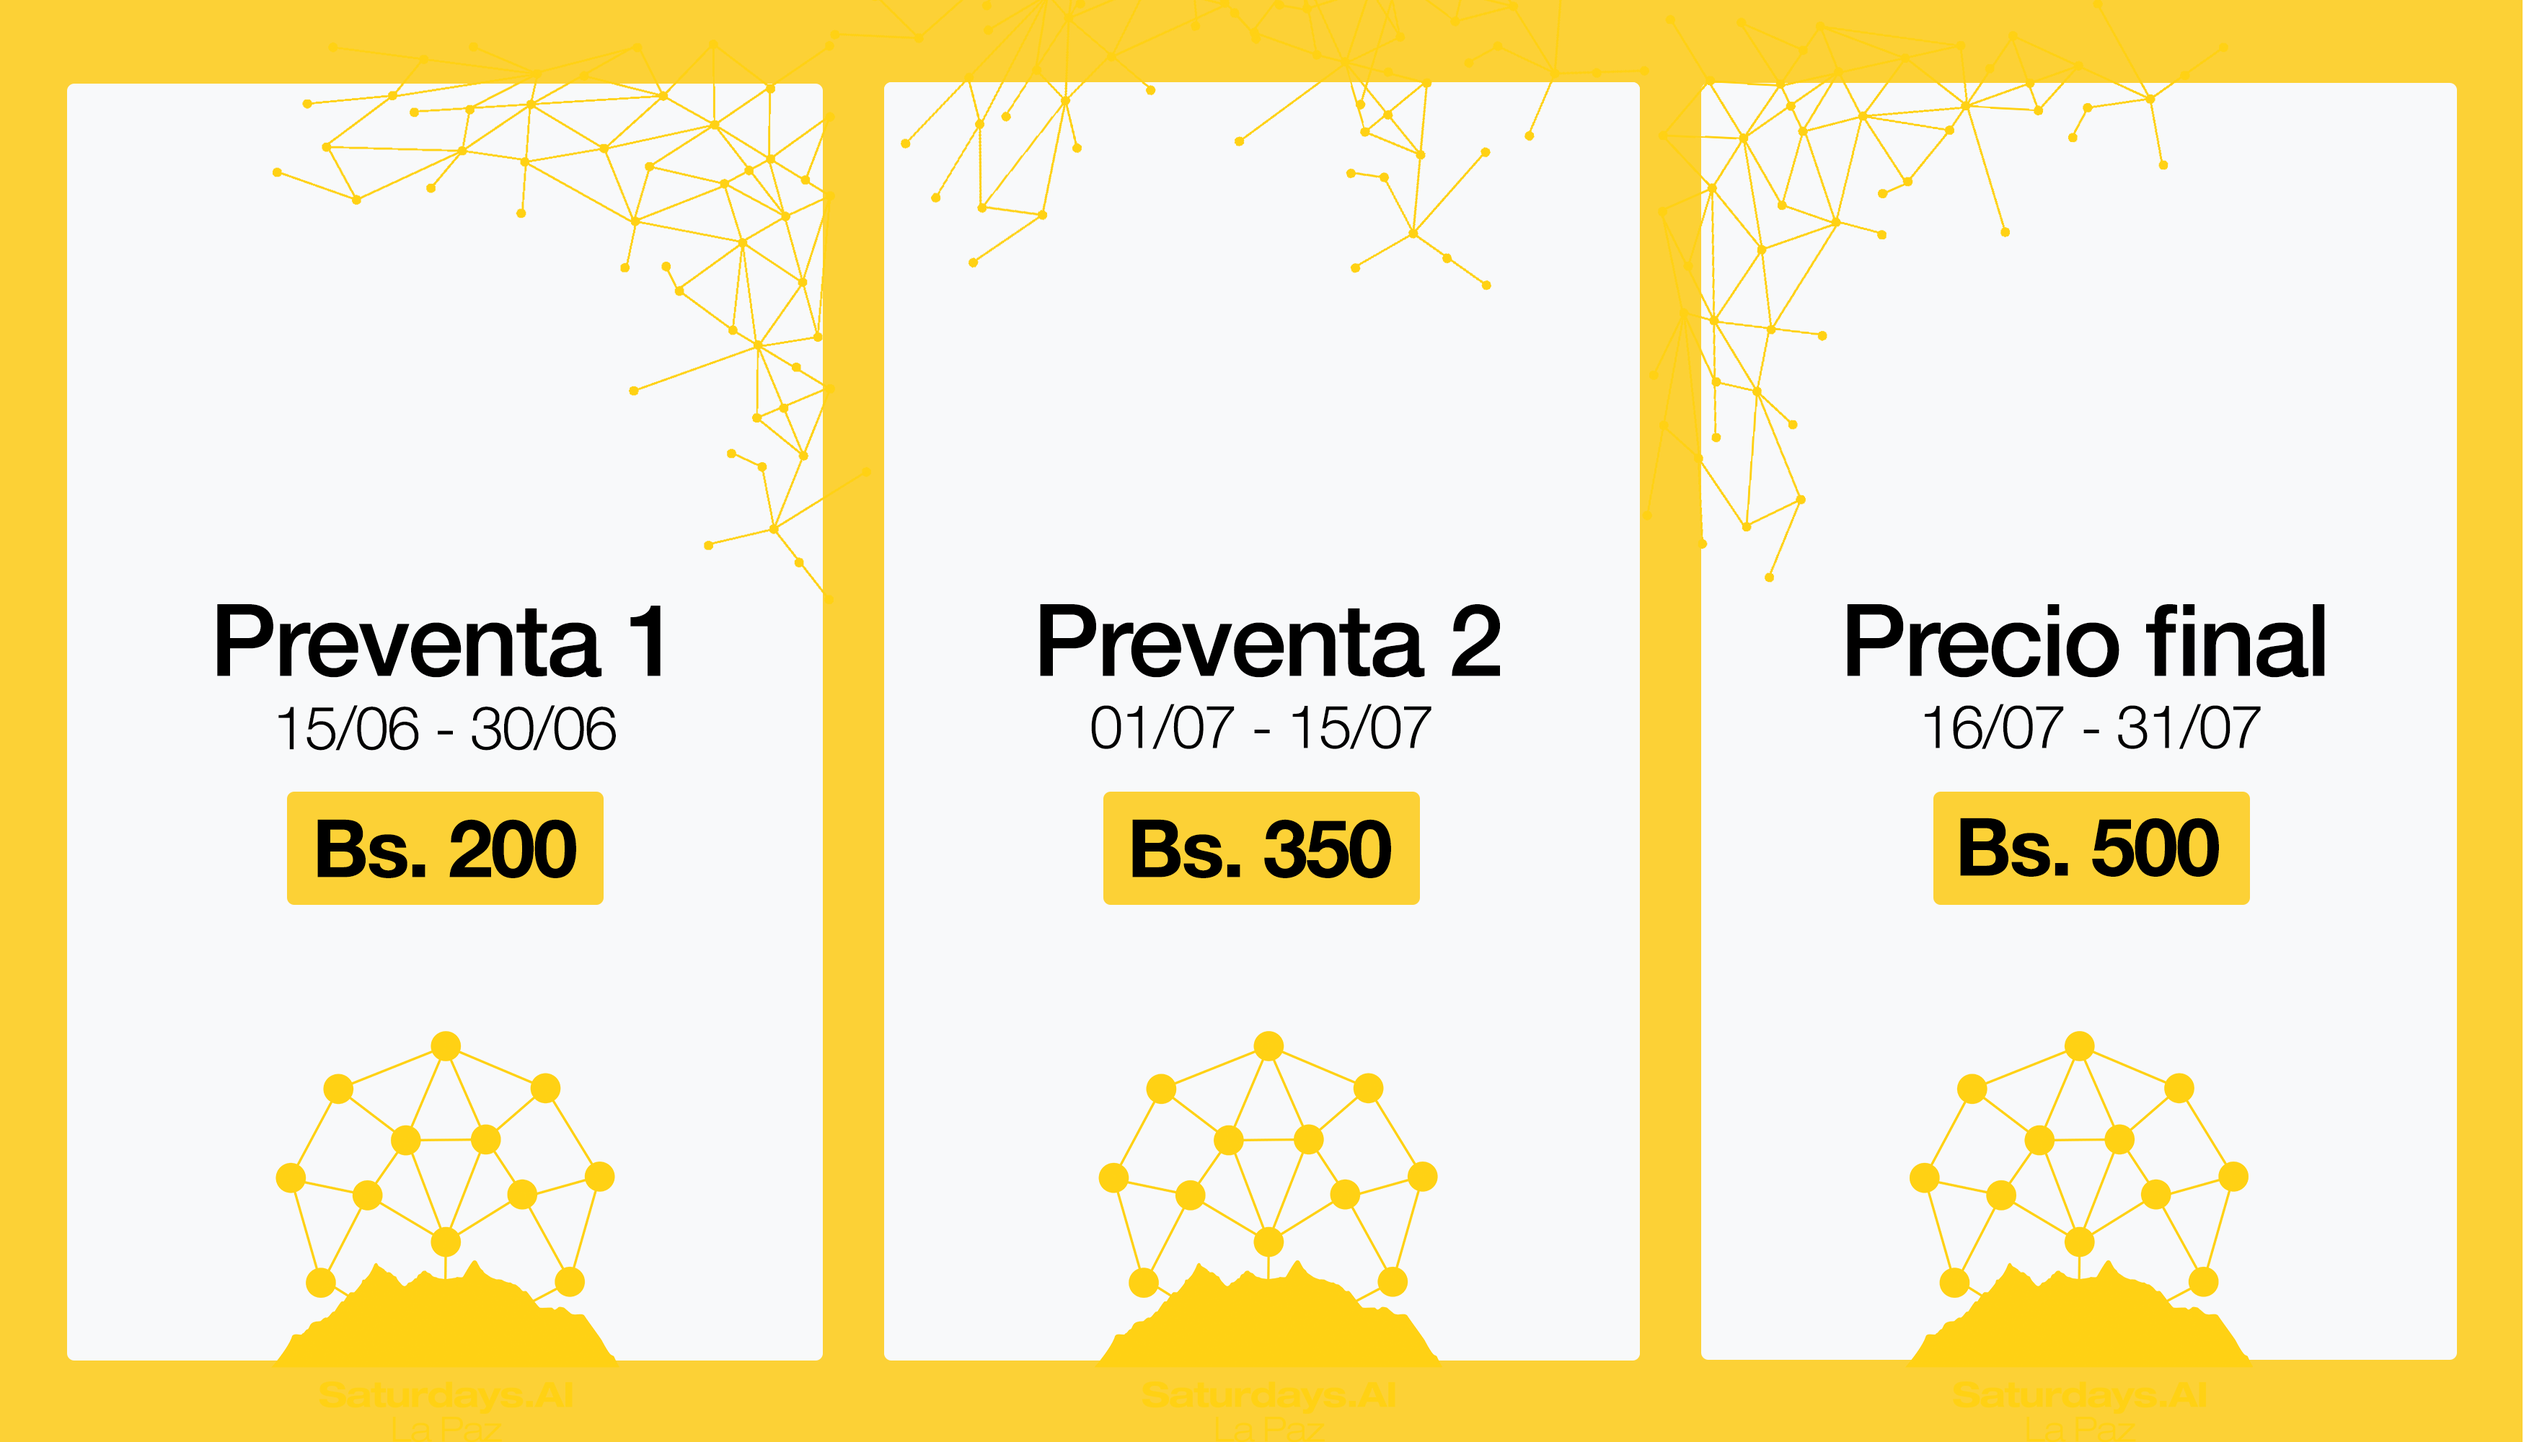
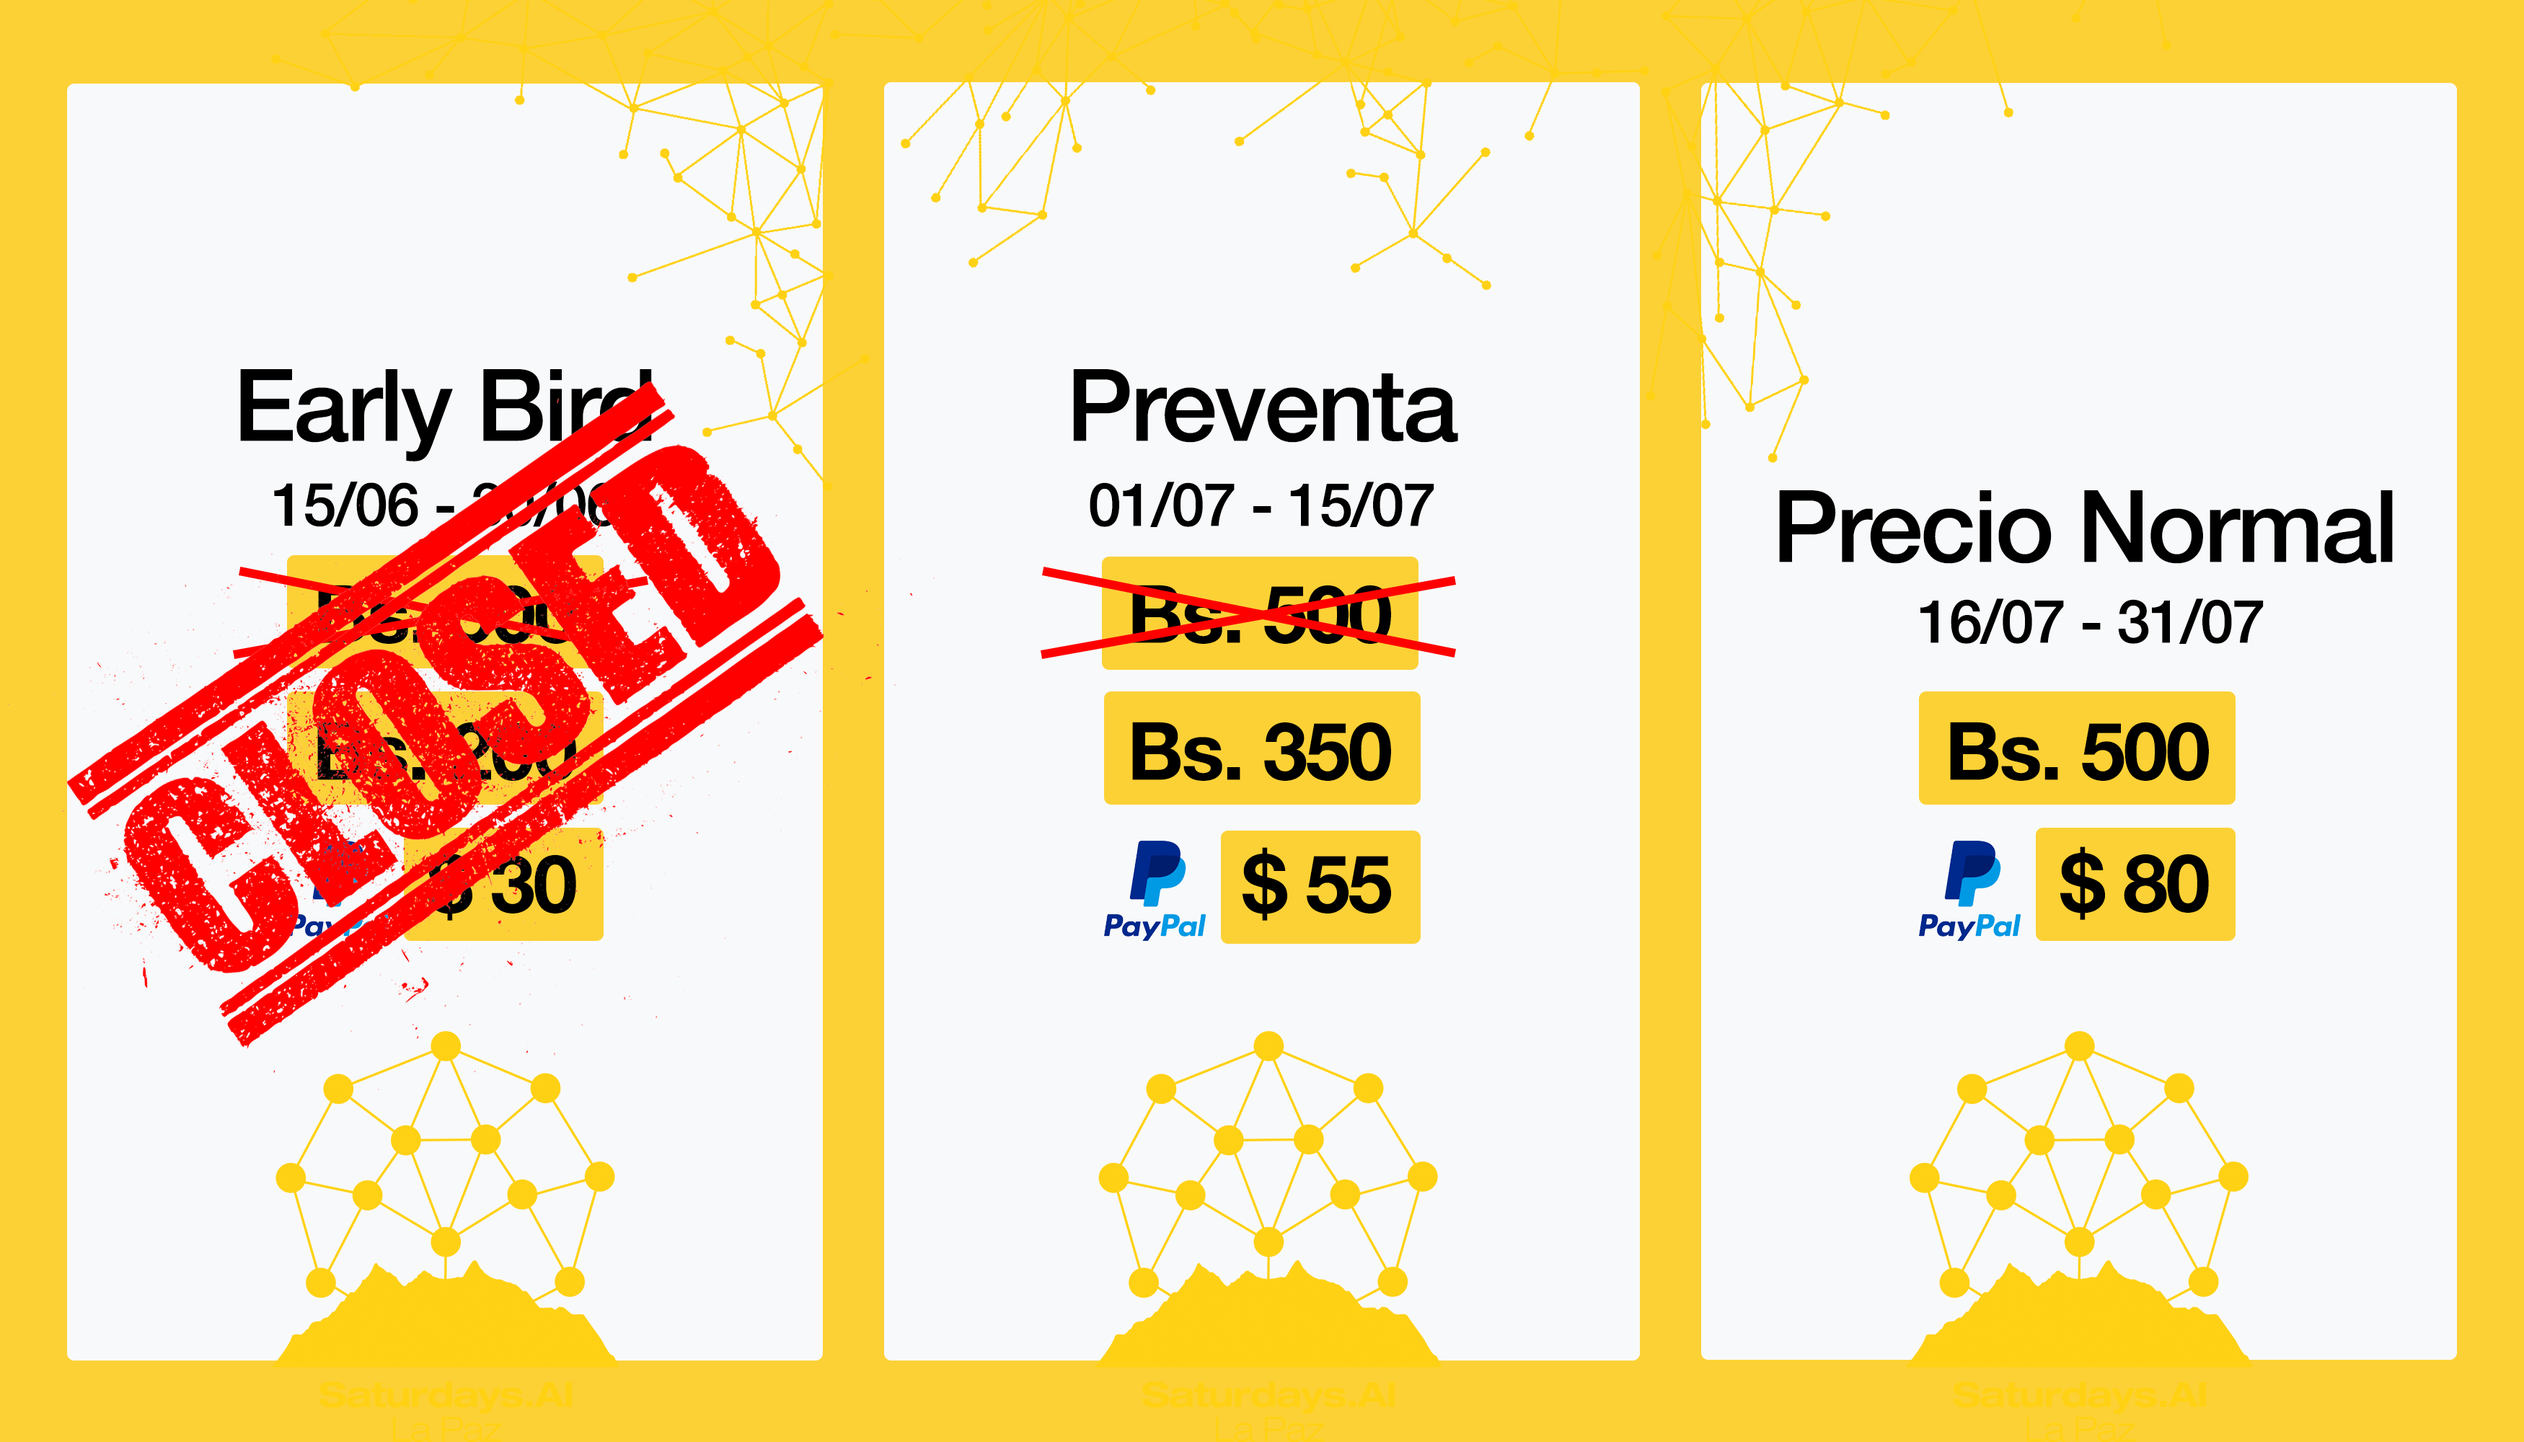
tier

diff --git a/index.html b/index.html
@@ -301,8 +301,8 @@ Soy profesora de Platzi en el curso de Fundamentos prácticos de Machine Learnin
                           <p><b>Modalidad:</b> Online</p>
                           <p> <b>Horario: </b> 09:00 - 12:00</p>
                           <p>¡Incluye Certificado avalado internacionalmente!.</p>
-                          <p>¡Aprovecha el descuento de Early Bird! (Un solo pago)</p>
-                          <img src= "assets/img/tier_ff.png" width="75%" height="75%"/><br><br>
+                          <p>¡Aprovecha el descuento de Preventa! (Un solo pago)</p>
+                          <img src= "assets/img/tier.png" width="75%" height="75%"/><br><br>
                           <button class="btn btn-primary btn-xl text-uppercase" id="sendMessageButton" type="reset"  onclick="window.open('https://bit.ly/SAILP-INS','_blank')">Inscribirme</button>
 
                       </div>
